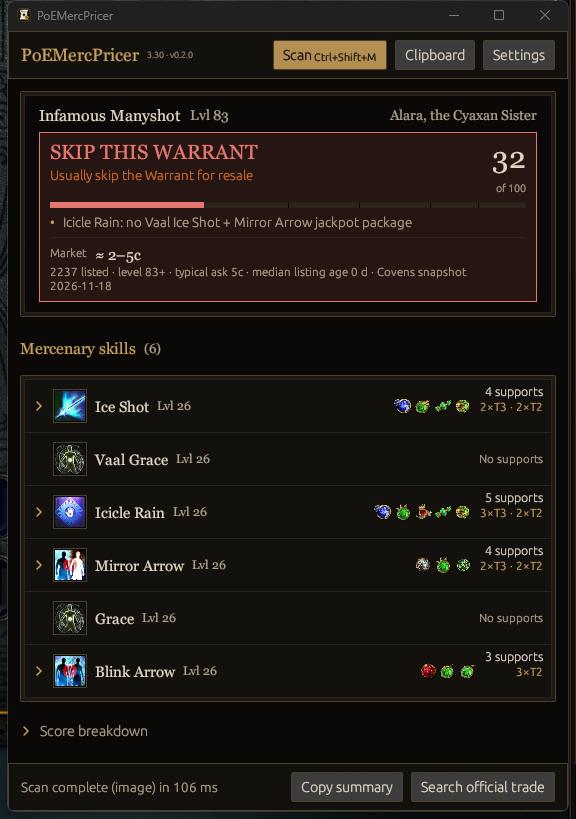
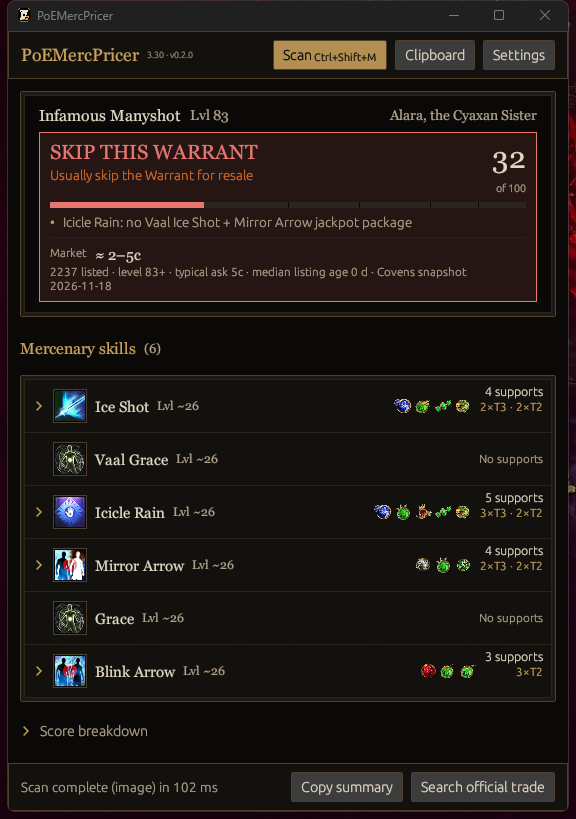
Show inferred skill levels as estimates
The 3.29.3 gem-level progression is unverified in 3.30, so levels derived from the mercenary level are marked with a tilde in the overlay and summary. Levels read from the panel are unchanged.

diff --git a/src/scan.rs b/src/scan.rs
@@ -82,7 +82,7 @@ fn scan_ocr_lines(
 
     // Each skill row's icon vision only reads the shared capture, so the six
     // rows run on scoped threads and join before anything is written back.
-    let row = |skill: &Skill| -> Option<(String, Option<u32>, Vec<SupportGem>)> {
+    let row = |skill: &Skill| -> Option<(String, Option<u32>, bool, Vec<SupportGem>)> {
         let skill_started = std::time::Instant::now();
         let line = best_line_for_skill(&cleaned, skill)?;
         let supports = supports_for_skill_row(img, line, &skill.canonical, panel);
@@ -93,11 +93,9 @@ fn scan_ocr_lines(
                 skill_started.elapsed().as_secs_f64() * 1_000.0
             );
         }
-        Some((
-            line.text.clone(),
-            parse_nearby_level(&cleaned, line).or(inferred_skill_level),
-            supports,
-        ))
+        let (level, estimated) =
+            skill_level(parse_nearby_level(&cleaned, line), inferred_skill_level);
+        Some((line.text.clone(), level, estimated, supports))
     };
     let rows: Vec<_> = std::thread::scope(|scope| {
         let handles: Vec<_> = merc
@@ -111,9 +109,10 @@ fn scan_ocr_lines(
             .collect()
     });
     for (skill, found) in merc.skills.iter_mut().zip(rows) {
-        if let Some((raw, level, supports)) = found {
+        if let Some((raw, level, level_estimated, supports)) = found {
             skill.raw = raw;
             skill.level = level;
+            skill.level_estimated = level_estimated;
             skill.supports = supports;
         }
     }
@@ -405,6 +404,15 @@ fn normalized_skill_catalog() -> &'static [(&'static str, String)] {
 
 /// The skill level is printed on its own line beside the skill name, so take
 /// the closest level text on the same row.
+/// A level read off the panel beats the inferred one; only the latter is an
+/// estimate.
+fn skill_level(read: Option<u32>, inferred: Option<u32>) -> (Option<u32>, bool) {
+    match read {
+        Some(level) => (Some(level), false),
+        None => (inferred, inferred.is_some()),
+    }
+}
+
 fn parse_nearby_level(lines: &[OcrLine], skill_line: &OcrLine) -> Option<u32> {
     static LEVEL: LazyLock<Regex> =
         LazyLock::new(|| Regex::new(r"(?i)\b(?:lv|lvl|level)\s*([1-9]|[1-3][0-9]|40)\b").unwrap());
@@ -584,6 +592,13 @@ mod tests {
         assert_eq!(cleanup_ocr("LVI 83"), "Lvl 83");
         assert_eq!(cleanup_ocr("lv1 26"), "Lvl 26");
         assert_eq!(cleanup_ocr("Silvia"), "Silvia");
+    }
+
+    #[test]
+    fn read_skill_level_is_exact_and_inferred_one_is_an_estimate() {
+        assert_eq!(super::skill_level(Some(24), Some(26)), (Some(24), false));
+        assert_eq!(super::skill_level(None, Some(26)), (Some(26), true));
+        assert_eq!(super::skill_level(None, None), (None, false));
     }
 
     #[test]

diff --git a/tests/warrant.rs b/tests/warrant.rs
@@ -334,3 +334,32 @@ fn real_330_chaplain_copy_parses_every_skill_support_and_tier() {
         .flat_map(|skill| &skill.supports)
         .all(|support| support.confidence >= 1.0));
 }
+
+#[test]
+fn clipboard_skill_levels_are_estimates_and_shown_with_a_tilde() {
+    let mut merc = parse_warrant_text(SAMPLE);
+    assert!(merc
+        .skills
+        .iter()
+        .all(|skill| skill.level == Some(26) && skill.level_estimated));
+    let result = score_mercenary(&merc, false);
+    let text = poemercpricer::summary::summary(&merc, &result, None);
+    assert!(
+        text.contains("Kinetic Blast of Clustering Lv~26:"),
+        "{text}"
+    );
+
+    // A level read off the panel is printed as is.
+    for skill in &mut merc.skills {
+        skill.level_estimated = false;
+    }
+    let text = poemercpricer::summary::summary(&merc, &result, None);
+    assert!(text.contains("Kinetic Blast of Clustering Lv26:"), "{text}");
+    assert!(!text.contains('~'), "{text}");
+
+    let unlevelled = parse_warrant_text(&SAMPLE.replace("Mercenary Level: 83\n", ""));
+    assert!(unlevelled
+        .skills
+        .iter()
+        .all(|skill| skill.level.is_none() && !skill.level_estimated));
+}

diff --git a/src/app.rs b/src/app.rs
@@ -1830,7 +1830,8 @@ fn skill_header(
                     ui.spacing_mut().item_spacing.x = 8.0;
                     ui.label(poe_text(&skill.canonical, 15.0, p.text));
                     if let Some(level) = skill.level {
-                        ui.label(poe_text(format!("Lvl {level}"), 12.0, p.muted));
+                        let tilde = if skill.level_estimated { "~" } else { "" };
+                        ui.label(poe_text(format!("Lvl {tilde}{level}"), 12.0, p.muted));
                     }
                 });
                 ui.label(poe_text("BRICK: competing attack", 12.0, p.red));
@@ -1838,7 +1839,8 @@ fn skill_header(
         } else {
             ui.label(poe_text(&skill.canonical, 15.0, p.text));
             if let Some(level) = skill.level {
-                ui.label(poe_text(format!("Lvl {level}"), 12.0, p.muted));
+                let tilde = if skill.level_estimated { "~" } else { "" };
+                ui.label(poe_text(format!("Lvl {tilde}{level}"), 12.0, p.muted));
             }
         }
         let show_icons = shows_icon_strip(row_width);

diff --git a/tests/scan_screenshots.rs b/tests/scan_screenshots.rs
@@ -34,7 +34,11 @@ fn scan_blade_ambusher_sid() {
     assert_eq!(merc.family, "blade_ambusher");
     assert_eq!(merc.name, "Sid, the Slack-Jawed");
     assert_eq!(merc.level, Some(83));
-    assert!(merc.skills.iter().all(|skill| skill.level == Some(26)));
+    // The panel shows no skill level, so it is inferred and flagged as an estimate.
+    assert!(merc
+        .skills
+        .iter()
+        .all(|skill| skill.level == Some(26) && skill.level_estimated));
     assert_eq!(
         rows(&merc),
         vec![
@@ -179,7 +183,11 @@ fn scan_storming_zealot_orvan() {
     assert_eq!(merc.family, "storming_zealot");
     assert_eq!(merc.name, "Orvan, the Keitan Convert");
     assert_eq!(merc.level, Some(83));
-    assert!(merc.skills.iter().all(|skill| skill.level == Some(26)));
+    // The panel shows no skill level, so it is inferred and flagged as an estimate.
+    assert!(merc
+        .skills
+        .iter()
+        .all(|skill| skill.level == Some(26) && skill.level_estimated));
     assert_eq!(
         rows(&merc),
         vec![

diff --git a/src/models.rs b/src/models.rs
@@ -48,11 +48,14 @@ pub struct Skill {
     pub supports: Vec<SupportGem>,
     /// Active-skill level, read directly or derived from the mercenary level.
     pub level: Option<u32>,
+    /// `level` came from `infer_mercenary_skill_level`, not from the panel.
+    pub level_estimated: bool,
     pub confidence: f32,
     pub raw: String,
 }
 
-/// Mercenary active/aura skill progression (measured in 3.29). Supports use tiers instead.
+/// Mercenary active/aura skill progression, measured in 3.29.3; unverified in
+/// 3.30, shown as an estimate. Supports use tiers instead.
 pub fn infer_mercenary_skill_level(mercenary_level: u32) -> Option<u32> {
     let mercenary_level = mercenary_level.min(100);
     (mercenary_level >= 66).then(|| (18 + (mercenary_level - 66) / 2).min(40))
@@ -67,6 +70,7 @@ impl Skill {
             canonical: c,
             supports: Vec::new(),
             level: None,
+            level_estimated: false,
             confidence: 1.0,
             raw: String::new(),
         }

diff --git a/src/parse/warrant.rs b/src/parse/warrant.rs
@@ -50,6 +50,8 @@ pub fn parse_warrant_text(text: &str) -> Mercenary {
         .and_then(|c| c.get(1))
         .and_then(|m| m.as_str().parse().ok());
 
+    // A Ctrl+C copy has no skill levels; this one is inferred, so an estimate.
+    let skill_level = level.and_then(infer_mercenary_skill_level);
     let mut skills = Vec::new();
     let mut started = false;
     for section in sections {
@@ -104,7 +106,8 @@ pub fn parse_warrant_text(text: &str) -> Mercenary {
             name: lines[0].to_string(),
             canonical: skill_name,
             supports: gems,
-            level: level.and_then(infer_mercenary_skill_level),
+            level: skill_level,
+            level_estimated: skill_level.is_some(),
             confidence: conf,
             raw: section.to_string(),
         });

diff --git a/src/summary.rs b/src/summary.rs
@@ -40,7 +40,11 @@ pub fn summary(merc: &Mercenary, result: &ScoreResult, market: Option<&MarketEst
         } else {
             gems.join(", ")
         };
-        let level = sk.level.map(|n| format!(" Lv{n}")).unwrap_or_default();
+        let tilde = if sk.level_estimated { "~" } else { "" };
+        let level = sk
+            .level
+            .map(|n| format!(" Lv{tilde}{n}"))
+            .unwrap_or_default();
         s.push_str(&format!("  {}{level}: {gems}\n", sk.canonical));
     }
     if !result.bricks.is_empty() {

diff --git a/tests/ocr_parse.rs b/tests/ocr_parse.rs
@@ -299,6 +299,11 @@ fn chaplain_abyssal_skills_stay_distinct() {
         "ocr",
     );
     assert_eq!(merc.family, "chaplain_of_the_well");
+    // OCR text alone never infers a skill level; scan.rs adds and flags it.
+    assert!(merc
+        .skills
+        .iter()
+        .all(|s| s.level.is_none() && !s.level_estimated));
     let skills: Vec<&str> = merc.skills.iter().map(|s| s.canonical.as_str()).collect();
     assert_eq!(
         skills,

diff --git a/src/parse/ocr_text.rs b/src/parse/ocr_text.rs
@@ -149,6 +149,7 @@ pub fn parse_ocr_lines(lines: &[String], source: &str) -> Mercenary {
             canonical: canon,
             supports: Vec::new(),
             level: None,
+            level_estimated: false,
             confidence: score,
             raw: ln.clone(),
         });

diff --git a/README.md b/README.md
@@ -17,7 +17,7 @@ Inspired by [Awakened PoE Trade](https://github.com/SnosMe/awakened-poe-trade): 
 - On-demand screen OCR of the inspect panel on Windows, via `Windows.Media.Ocr`
 - The 3.30.0 OCR catalog covers all 37 builds and 272 active-skill names
 - OCR reads active-skill names; image recognition handles all 152 support names in the catalog, at every visible tier I / II / III
-- Active-skill level comes from mercenary level: 83 gives skill level 26, 84 gives 27
+- Active-skill level is estimated from the mercenary level (83 gives 26, 84 gives 27) on clipboard pastes, and on scans when the panel shows none; estimates are shown with a tilde, such as `Lvl ~26`. The progression was measured in 3.29.3 and is unverified in 3.30
 - The 3.30 Warrant lines `Limit`, `Portal`, `Area Level` and `Item Tier` are ignored by the clipboard parser wherever they appear, and OCR never reads an `Area Level` line as the mercenary level
 - A screen for every family, recalibrated from a 3.30 trade-site survey: market screens with skill-bound gates and bricks, jackpot screens for the premium packages, and a tier-capped generic estimate for six families (see Scoring)
 - A market ask range next to the score, from a bundled snapshot of the cheapest level-83+ instant-buyout listings on the official trade site per family and support package, with listing count (the trade site's search total at ilvl 83+, instant buyout), listing age, and the snapshot date (see `docs/market-3.30.md`; refresh with `scripts/fetch-warrant-prices.ps1`)

diff --git a/docs/research-3.30.md b/docs/research-3.30.md
@@ -51,7 +51,7 @@ The trade JSON reports item level 0, but the trade site's ilvl filter selects th
 - New build: Chaplain of the Well.
 - New skills: Abyssal Spray, Abyssal Spray Detonation, Power of the Depths and Vaal Smite. Steelskin Ally was added too; it was missing from the 3.29 catalog as well, and it only rolls on Swiftblade.
 - Support art is byte-identical to 3.29. No build or skill was removed.
-- No 3.30 patch note changes Mercenary gem levels, so the 3.29-measured skill-level progression (`src/models.rs`) is kept, unverified for 3.30.
+- No 3.30 patch note changes Mercenary gem levels, so the skill-level progression measured in 3.29.3 (`src/models.rs`) is kept. Its source thread can no longer be read and the 3.30 trade data has no skill levels, so it is unverified for 3.30: inferred levels are flagged as estimates and shown with a tilde (`Lvl ~26`).
 - PoEDB's scraper broke on a markup change (`decoding="async"` on the support images) and was fixed.
 
 ### Support-context audit

diff --git a/CHANGELOG.md b/CHANGELOG.md
@@ -24,6 +24,7 @@ Path of Exile 3.30.0 (Covens of Umbra) support.
   - Details and evidence are in `docs/market-3.30.md`.
 - Market data now comes from the official trade site only. Trade stats, warrant types, listing counts and prices are collected there, and a listing count is the site's search total at item level 83+, instant buyout. This replaces the third-party ledger counts used in 3.29.
 - A package with no listings falls back to the next package or shows "no listings data" instead of a price of 0c.
+- Active-skill levels worked out from the mercenary level are now shown as estimates with a tilde, such as `Lvl ~26`. The formula was measured in 3.29.3 and could not be checked for 3.30, because the 3.30 trade data has no skill levels. A level read from the panel is shown as before.
 
 ### Fixed
 
